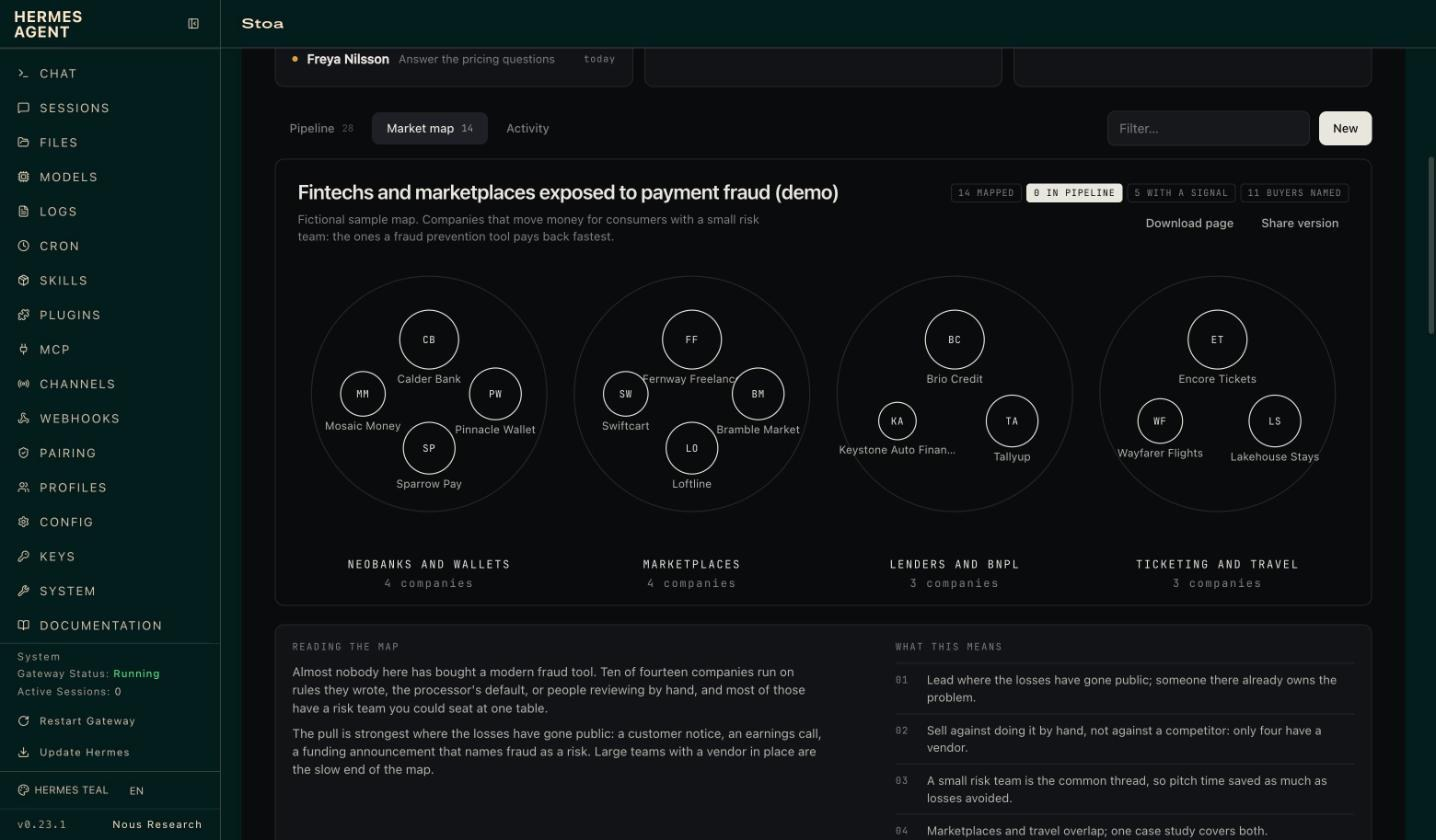
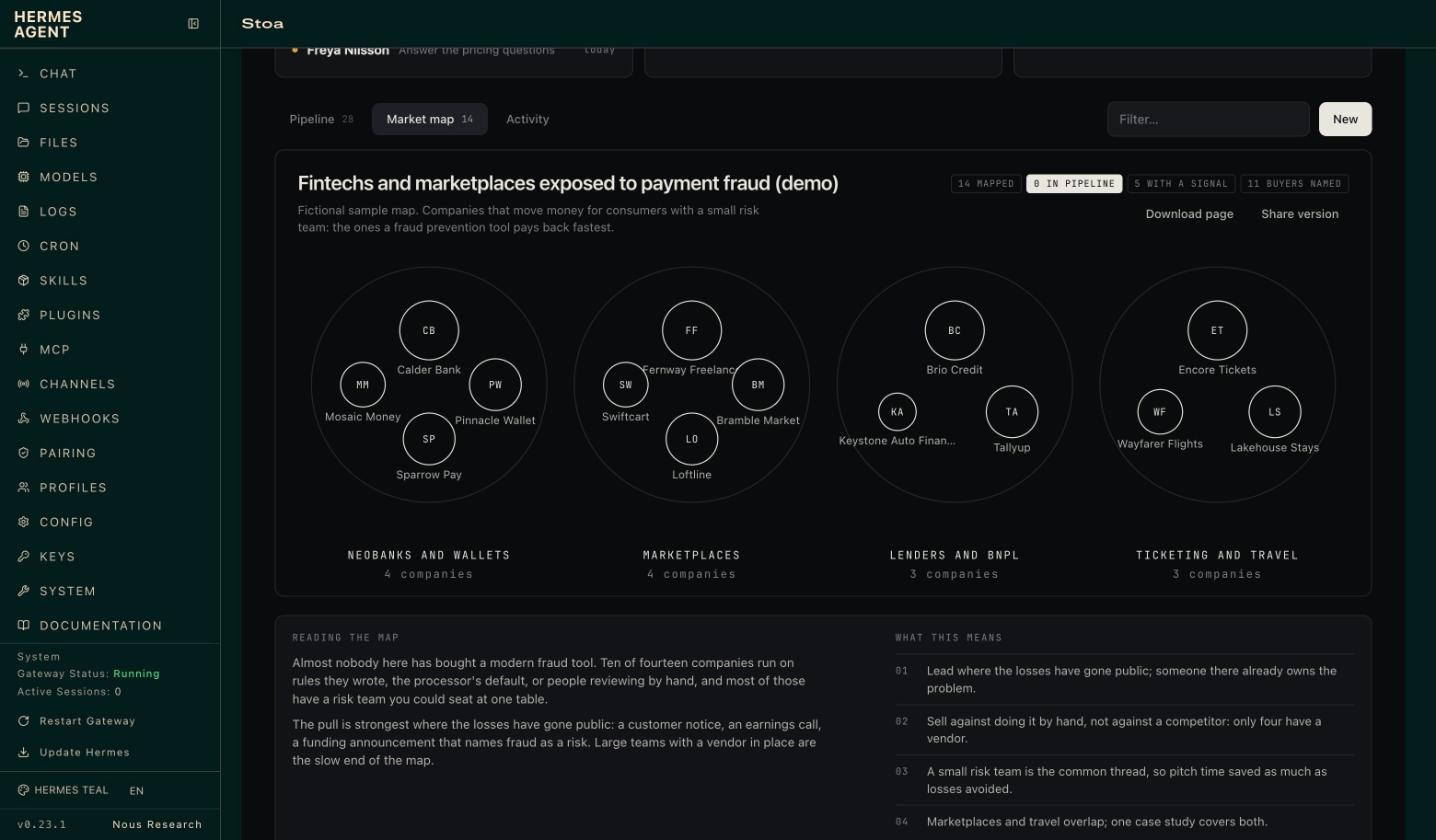
Stoa 0.6.5: colours follow the Hermes theme
The Webapp half now takes every colour from the app's own theme, accent included:
the selected tab, the open card and the open pane row use the app's selected-item
style, and the main action, stage meter and won block use the app's accent.
The dashboard tab and the export page end their one line in the same blue.
Screenshots re-shot.

diff --git a/desktop/plugin.js b/desktop/plugin.js
@@ -120,9 +120,14 @@ async function track(target, sessionId) {
 
 // -- look: the app's own variables only, so every theme carries it -------------------------------
 const CSS = `
-/* Colour: the theme's own text and strokes, and one accent. Olive is fixed; the rest follows the theme. */
-.stoa { font-size: 13px; line-height: 1.45; color: var(--ui-text-primary); --stoa-olive-fill: #7f8c50;
-  --stoa-olive: color-mix(in oklab, #7f8c50 74%, var(--ui-text-primary)); }
+/* Colour: all of it comes from the app's theme. One accent, the app's own (--ui-accent), used the way the
+   app uses it: filled for the main action, tinted with a hairline for "you are here". */
+.stoa { font-size: 13px; line-height: 1.45; color: var(--ui-text-primary);
+  --stoa-accent: var(--ui-accent);
+  --stoa-on-accent: var(--dt-midground-foreground, #fff);
+  --stoa-accent-text: color-mix(in oklab, var(--ui-accent) 58%, var(--ui-text-primary));
+  --stoa-accent-soft: color-mix(in srgb, var(--ui-accent) 16%, transparent);
+  --stoa-accent-line: color-mix(in srgb, var(--ui-accent) 58%, transparent); }
 .stoa *, .stoa *::before { box-sizing: border-box; }
 .stoa-pane { display: flex; flex-direction: column; height: 100%; min-height: 0; }
 .stoa-scroll { flex: 1; min-height: 0; overflow-y: auto; padding: 14px 12px 18px; }
@@ -132,17 +137,18 @@ const CSS = `
 .stoa-figure { font-size: 30px; font-weight: 600; letter-spacing: -.02em; line-height: 1.1; font-variant-numeric: tabular-nums; margin-top: 4px; }
 .stoa-figure small { font-size: 12px; font-weight: 400; letter-spacing: 0; color: var(--ui-text-tertiary); margin-left: 7px; }
 .stoa-page .stoa-figure { font-size: 44px; }
-.stoa-rule { height: 2px; border-radius: 2px; margin: 12px 0 4px; background: linear-gradient(90deg, var(--ui-text-primary), var(--ui-text-tertiary) 46%, var(--stoa-olive-fill)); }
+.stoa-rule { height: 2px; border-radius: 2px; margin: 12px 0 4px; background: linear-gradient(90deg, var(--ui-text-primary), var(--ui-text-tertiary) 46%, var(--stoa-accent)); }
 .stoa-sub { color: var(--ui-text-tertiary); font-size: 12px; }
 .stoa-clip { overflow: hidden; text-overflow: ellipsis; white-space: nowrap; }
 .stoa-sec { margin-top: 16px; }
 .stoa-sechead { display: flex; justify-content: space-between; align-items: baseline; gap: 8px; padding: 0 8px 4px; }
 .stoa-row { display: flex; gap: 8px; align-items: flex-start; width: 100%; padding: 6px 8px; border: 0; border-radius: 6px; background: transparent; color: inherit; font: inherit; text-align: left; cursor: pointer; }
-.stoa-row:hover, .stoa-row[data-open="1"] { background: var(--ui-row-hover-background); }
+.stoa-row:hover { background: var(--ui-row-hover-background); }
+.stoa-row[data-open="1"] { background: var(--stoa-accent-soft); box-shadow: inset 0 0 0 1px var(--stoa-accent-line); }
 .stoa-dot { flex: none; width: 6px; height: 6px; margin-top: 6px; border-radius: 50%; background: var(--ui-text-quaternary); }
 .stoa-dot[data-tone="bad"] { background: var(--ui-red); }
 .stoa-dot[data-tone="warn"] { background: var(--ui-orange); }
-.stoa-dot[data-tone="good"] { background: var(--stoa-olive-fill); }
+.stoa-dot[data-tone="good"] { background: var(--stoa-accent); }
 .stoa-grow { flex: 1; min-width: 0; }
 .stoa-name { font-weight: 550; }
 .stoa-num { flex: none; font-size: 12px; font-variant-numeric: tabular-nums; color: var(--ui-text-secondary); white-space: nowrap; }
@@ -153,7 +159,7 @@ const CSS = `
 .stoa-inchat { max-width: 460px; margin: 6px 0; }
 .stoa-meter { display: flex; gap: 3px; margin: 8px 0 4px; }
 .stoa-meter i { flex: 1; height: 3px; border-radius: 2px; background: var(--ui-stroke-secondary); }
-.stoa-meter i[data-on="1"] { background: var(--ui-text-primary); }
+.stoa-meter i[data-on="1"] { background: var(--stoa-accent); }
 .stoa-facts { display: grid; grid-template-columns: 1fr 1fr; gap: 8px 14px; margin: 14px 0 2px; padding-top: 12px; border-top: 1px solid var(--ui-stroke-tertiary); }
 .stoa-facts span { display: block; overflow-wrap: anywhere; }
 .stoa-next { margin-top: 10px; }
@@ -163,14 +169,14 @@ const CSS = `
 .stoa-btn, .stoa-select { height: 28px; padding: 0 10px; border: 1px solid var(--ui-stroke-primary); border-radius: 6px; background: transparent; color: var(--ui-text-primary); font: inherit; font-size: 12px; cursor: pointer; }
 .stoa-btn, .stoa-select { transition: background .15s ease, opacity .15s ease; }
 .stoa-btn:hover, .stoa-select:hover { background: var(--ui-control-hover-background); }
-.stoa-btn[data-kind="primary"]:hover { background: var(--ui-text-primary); opacity: .88; }
-.stoa-btn[data-kind="primary"] { border-color: var(--ui-text-primary); background: var(--ui-text-primary); color: var(--ui-bg-editor); font-weight: 550; }
+.stoa-btn[data-kind="primary"]:hover { background: var(--stoa-accent); opacity: .88; }
+.stoa-btn[data-kind="primary"] { border-color: var(--stoa-accent); background: var(--stoa-accent); color: var(--stoa-on-accent); font-weight: 550; }
 .stoa-btn[data-kind="quiet"] { border-color: transparent; color: var(--ui-text-secondary); }
 .stoa-btn:disabled, .stoa-select:disabled { opacity: .5; cursor: default; }
 .stoa-chip { display: inline-block; padding: 1px 6px; border: 1px solid var(--ui-stroke-secondary); border-radius: 4px; font-family: ui-monospace, "SF Mono", Menlo, monospace; font-size: 10px; letter-spacing: .08em; text-transform: uppercase; color: var(--ui-text-tertiary); white-space: nowrap; }
 .stoa-chip[data-tone="bad"] { color: var(--ui-red); border-color: var(--ui-red); }
 .stoa-chip[data-tone="warn"] { color: var(--ui-orange); border-color: var(--ui-orange); }
-.stoa-chip[data-tone="good"] { color: var(--stoa-olive); border-color: var(--stoa-olive); }
+.stoa-chip[data-tone="good"] { color: var(--stoa-accent-text); border-color: var(--stoa-accent-line); background: var(--stoa-accent-soft); }
 .stoa-chips { display: flex; flex-wrap: wrap; gap: 5px; margin-top: 7px; }
 .stoa-foot { display: flex; flex-wrap: wrap; gap: 6px; padding: 10px 12px; border-top: 1px solid var(--ui-stroke-tertiary); }
 .stoa-stats { display: grid; grid-template-columns: repeat(auto-fit, minmax(120px, 1fr)); margin: 22px 0 6px; border-top: 1px solid var(--ui-stroke-secondary); border-bottom: 1px solid var(--ui-stroke-secondary); }
@@ -179,9 +185,9 @@ const CSS = `
 .stoa-tabs { display: inline-flex; gap: 2px; margin: 22px 0 18px; padding: 3px; border: 1px solid var(--ui-stroke-secondary); border-radius: 10px; background: var(--ui-bg-card); }
 .stoa-tab { display: inline-flex; align-items: center; gap: 8px; height: 32px; padding: 0 15px; border: 0; border-radius: 7px; background: transparent; color: var(--ui-text-secondary); font: inherit; font-size: 13px; cursor: pointer; outline: none; transition: background .15s ease, color .15s ease; }
 .stoa-tab:hover { color: var(--ui-text-primary); background: var(--ui-control-hover-background); }
-.stoa-tab[data-on="1"], .stoa-tab[data-on="1"]:hover { background: var(--ui-text-primary); color: var(--ui-bg-editor); font-weight: 600; }
+.stoa-tab[data-on="1"], .stoa-tab[data-on="1"]:hover { background: var(--stoa-accent-soft); box-shadow: inset 0 0 0 1px var(--stoa-accent-line); color: var(--ui-text-primary); font-weight: 600; }
 .stoa-tab small { font-family: ui-monospace, "SF Mono", Menlo, monospace; font-size: 10px; opacity: .6; }
-.stoa button:focus-visible, .stoa select:focus-visible, .stoa input:focus-visible { outline: 2px solid var(--stoa-olive); outline-offset: 2px; }
+.stoa button:focus-visible, .stoa select:focus-visible, .stoa input:focus-visible { outline: 2px solid var(--stoa-accent-line); outline-offset: 2px; }
 .stoa-split { display: grid; grid-template-columns: minmax(0, 1fr); gap: 20px; align-items: start; }
 .stoa-split[data-side="1"] { grid-template-columns: minmax(0, 1fr) 360px; }
 .stoa-split > .stoa-box { position: sticky; top: 0; max-height: calc(100vh - 120px); overflow-y: auto; }
@@ -191,7 +197,7 @@ const CSS = `
 .stoa-card { transition: border-color .15s ease, transform .15s ease; }
 .stoa-card:hover, .stoa-card[data-open="1"] { border-color: var(--ui-stroke-primary); }
 .stoa-card:hover { transform: translateY(-1px); }
-.stoa-card[data-open="1"] { box-shadow: inset 2px 0 0 var(--stoa-olive-fill); }
+.stoa-card[data-open="1"] { border-color: var(--stoa-accent-line); background: var(--stoa-accent-soft); }
 .stoa-cardfoot { display: flex; justify-content: space-between; gap: 8px; align-items: baseline; margin-top: 6px; font-size: 12px; }
 .stoa-cardfoot em { flex: none; font-style: normal; font-size: 11px; color: var(--ui-text-tertiary); }
 .stoa-card h5 { display: flex; justify-content: space-between; gap: 8px; margin: 0; font-size: 13px; font-weight: 550; }
@@ -210,12 +216,12 @@ const CSS = `
 .stoa-filters .stoa-input { flex: 1 1 120px; min-width: 0; height: 28px; padding: 0 9px; border: 1px solid var(--ui-stroke-secondary); border-radius: 6px; background: transparent; color: var(--ui-text-primary); font: inherit; font-size: 12px; outline: none; }\n.stoa-filters .stoa-input:focus { border-color: var(--ui-stroke-primary); }\n.stoa-filters .stoa-input::placeholder { color: var(--ui-text-quaternary); }
 .stoa-filters .stoa-select { max-width: 150px; }
 .stoa-toggle { height: 28px; padding: 0 9px; border: 1px solid var(--ui-stroke-secondary); border-radius: 6px; background: transparent; color: var(--ui-text-secondary); font: inherit; font-size: 12px; cursor: pointer; }
-.stoa-toggle[data-on="1"] { border-color: var(--stoa-olive); color: var(--ui-text-primary); background: color-mix(in srgb, var(--stoa-olive-fill) 20%, transparent); }
+.stoa-toggle[data-on="1"] { border-color: var(--stoa-accent-line); color: var(--ui-text-primary); background: var(--stoa-accent-soft); }
 .stoa-funnel { margin: 0 0 20px; padding: 16px 18px 12px; border: 1px solid var(--ui-stroke-secondary); border-radius: 10px; background: var(--ui-bg-card); }
 .stoa-funnel svg { display: block; width: 100%; height: auto; overflow: visible; }
 .stoa-funnel text { font-family: ui-monospace, "SF Mono", Menlo, monospace; }
-.stoa-fn-block { fill: var(--ui-text-primary); opacity: .58; }
-.stoa-fn-won { fill: var(--stoa-olive-fill); }
+.stoa-fn-block { fill: var(--ui-text-primary); opacity: .5; }
+.stoa-fn-won { fill: var(--stoa-accent); }
 .stoa-fn-link { fill: var(--ui-text-primary); opacity: .13; }
 .stoa-fn-label { font-size: 9.5px; letter-spacing: .12em; fill: var(--ui-text-tertiary); }
 .stoa-fn-num { font-size: 15px; font-weight: 600; fill: var(--ui-text-primary); font-family: inherit !important; }
@@ -226,7 +232,7 @@ const CSS = `
 .stoa-list { max-height: 340px; overflow-y: auto; margin-top: 10px; }
 .stoa-pick { display: flex; gap: 9px; align-items: flex-start; padding: 7px 0; border-top: 1px solid var(--ui-stroke-tertiary); cursor: pointer; }
 .stoa-pick:first-child { border-top: 0; }
-.stoa-pick input { flex: none; margin-top: 3px; accent-color: var(--stoa-olive-fill); }
+.stoa-pick input { flex: none; margin-top: 3px; accent-color: var(--stoa-accent); }
 .stoa-pick[data-off="1"] .stoa-grow { opacity: .5; }
 .stoa-rest { margin-top: 10px; font-size: 12px; color: var(--ui-text-tertiary); }
 .stoa-rest summary { cursor: pointer; }

diff --git a/dashboard/dist/style.css b/dashboard/dist/style.css
@@ -8,14 +8,14 @@
   --st-card: #f6f7f9;
   --st-raise: #ffffff;
   --st-wash: #e9ecf4;
-  /* One quiet line of colour: pale, to grey, to olive. */
-  --st-spec-a: #d9d8d0;
-  --st-spec-b: #8f8f87;
-  --st-spec-c: #667338;
+  /* One quiet line of colour: pale, to grey, to the Hermes blue. */
+  --st-spec-a: #d6d9e0;
+  --st-spec-b: #8b909c;
+  --st-spec-c: #0053fd;
   --st-spectrum: linear-gradient(90deg, var(--st-spec-a), var(--st-spec-b) 46%, var(--st-spec-c));
   --st-warn: #a8690a;
   --st-bad: #b3372f;
-  --st-good: #5f6b38;
+  --st-good: #0a4fe0;
   --st-serif: "Didot", "Bodoni 72", "Playfair Display", "Hoefler Text", "Iowan Old Style", Georgia, serif;
   --st-sans: "Inter", ui-sans-serif, system-ui, -apple-system, "Segoe UI", sans-serif;
   --st-mono: ui-monospace, "SF Mono", "JetBrains Mono", Menlo, monospace;
@@ -40,12 +40,12 @@
   --st-card: #121316;
   --st-raise: #17181c;
   --st-wash: #1e2027;
-  --st-spec-a: #f1efe7;
-  --st-spec-b: #8f8f87;
-  --st-spec-c: #7f8c50;
+  --st-spec-a: #eef0f5;
+  --st-spec-b: #8b909c;
+  --st-spec-c: #4a84fe;
   --st-warn: #d9a441;
   --st-bad: #e0766c;
-  --st-good: #a3ad74;
+  --st-good: #7ea6ff;
 }
 .stoa *, .stoa *::before, .stoa *::after { box-sizing: border-box; }
 

diff --git a/page.py b/page.py
@@ -9,15 +9,15 @@ import math
 from html import escape as esc
 
 CSS = """
-:root { --bg:#ffffff; --ink:#1b1c20; --soft:#4b4e58; --mute:#8a8e9b; --line:#e5e7ec; --card:#f6f7f9; --pale:#d9d8d0; --olive:#667338; color-scheme: light; }
-@media (prefers-color-scheme: dark) { :root { --bg:#0a0b0d; --ink:#e8e6de; --soft:#b3b1aa; --mute:#7d7e80; --line:#24262a; --card:#121316; --pale:#f1efe7; --olive:#7f8c50; color-scheme: dark; } }
+:root { --bg:#ffffff; --ink:#1b1c20; --soft:#4b4e58; --mute:#8a8e9b; --line:#e5e7ec; --card:#f6f7f9; --pale:#d6d9e0; --accent:#0053fd; color-scheme: light; }
+@media (prefers-color-scheme: dark) { :root { --bg:#0a0b0d; --ink:#e8e6de; --soft:#b3b1aa; --mute:#7d7e80; --line:#24262a; --card:#121316; --pale:#eef0f5; --accent:#4a84fe; color-scheme: dark; } }
 * { box-sizing: border-box; } html, body { margin: 0; background: var(--bg); color: var(--ink); }
 body { font: 15px/1.5 Inter, ui-sans-serif, system-ui, -apple-system, "Segoe UI", sans-serif; max-width: 1060px; margin: 0 auto; padding: 44px 32px 80px; -webkit-font-smoothing: antialiased; }
 .mono, th, .eyebrow, .stat small, .bar em, .tag { font-family: ui-monospace, "SF Mono", Menlo, monospace; font-size: 11px; letter-spacing: .12em; text-transform: uppercase; color: var(--mute); font-style: normal; font-weight: 400; }
 h1 { font: 400 clamp(40px, 6vw, 72px)/.98 Didot, "Bodoni 72", "Playfair Display", Georgia, serif; letter-spacing: -.02em; margin: 18px 0 14px; }
 h2 { font-size: 13px; font-weight: 600; letter-spacing: -.005em; margin: 0 0 14px; padding-top: 14px; border-top: 1px solid var(--ink); }
 p { margin: 0 0 10px; color: var(--soft); max-width: 72ch; } a { color: inherit; text-underline-offset: 3px; text-decoration-color: var(--mute); }
-section { margin-top: 44px; } .rule { height: 2px; margin: 28px 0 0; border-radius: 2px; background: linear-gradient(90deg, var(--pale), #8f8f87 46%, var(--olive)); }
+section { margin-top: 44px; } .rule { height: 2px; margin: 28px 0 0; border-radius: 2px; background: linear-gradient(90deg, var(--pale), #8b909c 46%, var(--accent)); }
 .stats { display: grid; grid-template-columns: repeat(auto-fit, minmax(130px, 1fr)); gap: 0; border-top: 1px solid var(--line); margin-top: 26px; }
 .stat { padding: 16px 16px 4px 0; } .stat b { display: block; font: 400 40px/1 Didot, "Bodoni 72", Georgia, serif; font-variant-numeric: lining-nums; } .stat small { display: block; margin-top: 8px; color: var(--ink); }
 .two { display: grid; grid-template-columns: 1fr 1fr; gap: 40px; } @media (max-width: 760px) { .two { grid-template-columns: 1fr; } body { padding: 28px 18px 60px; } }

diff --git a/README.md b/README.md
@@ -88,8 +88,8 @@ In the Hermes Desktop app and the Webapp, Stoa sits beside the conversation.
 
 ![A list waiting for review](docs/desktop-intake.jpg)
 
-Switch it on once under **Capabilities → Plugins → Stoa**. It is drawn with the app's own theme
-variables, so it follows whatever theme you run.
+Switch it on once under **Capabilities → Plugins → Stoa**. Every colour comes from the app's own
+theme, accent included, so it looks like part of Hermes in whatever theme you run.
 
 ![The market map page, here for the fraud prevention example](docs/desktop-market.jpg)
 
@@ -113,8 +113,8 @@ already running when you installed Stoa, restart it once and the tab appears.
   company uses today. Open a company for its requirements checklist, buyers and source, then
   **Add to pipeline**. **Download page** saves the map as a web page.
 - **Activity:** everything that happened, from Slack clicks, the agent and the web alike.
-- **Paper and ink.** Neutral in light and dark, with one quiet line that runs from white through
-  grey to olive. A switch picks the mode, whatever dashboard theme you run.
+- **Paper and ink.** Neutral in light and dark, with one quiet line that ends in the Hermes blue.
+  A switch picks the mode, whatever dashboard theme you run.
 
 ![The market map](docs/dashboard-market-map.jpg)
 
